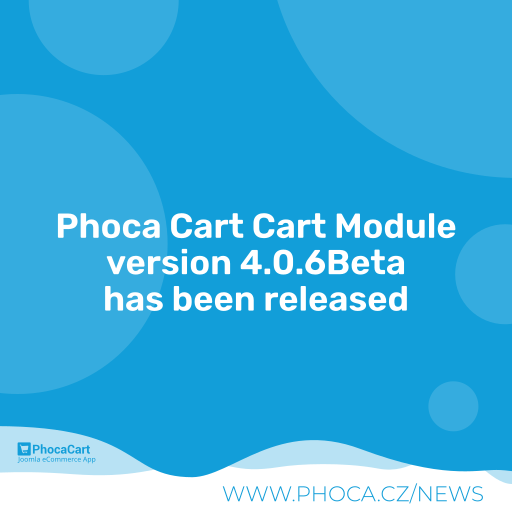
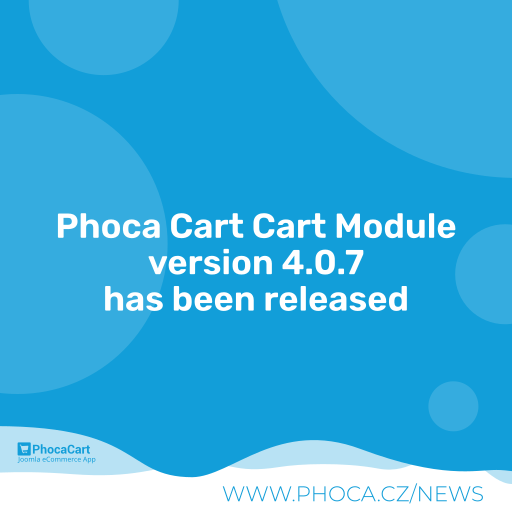
4.0.7

Changed region(s): [[0.1875, 0.4688, 0.8125, 0.5625]]

diff --git a/mod_phocacart_cart.php b/mod_phocacart_cart.php
@@ -43,12 +43,12 @@ if ($p['load_component_media'] == 1) {
 }
 
 $cart->setFullItems();
+
 //echo '<div class="ph-cart-module-box"><div id="phItemCartBox">';
 
 // We still not in database, when shipping or payment change
 // we need to reflect it the same way standard checkout does
 // SHIPPING
-
 $shippingEdit	= 0;
 $shippingEdit	= $app->input->get('shippingedit', 0, 'int');
 $shippingId 	= $cart->getShippingId();

diff --git a/README.MD b/README.MD
@@ -60,7 +60,7 @@ Phoca Cart Cart Module - a Joomla! CMS module which displays products ordered in
 
 ## Version (Joomla! 4.x)
 
-4.0.6Beta
+4.0.7
 
 
 
